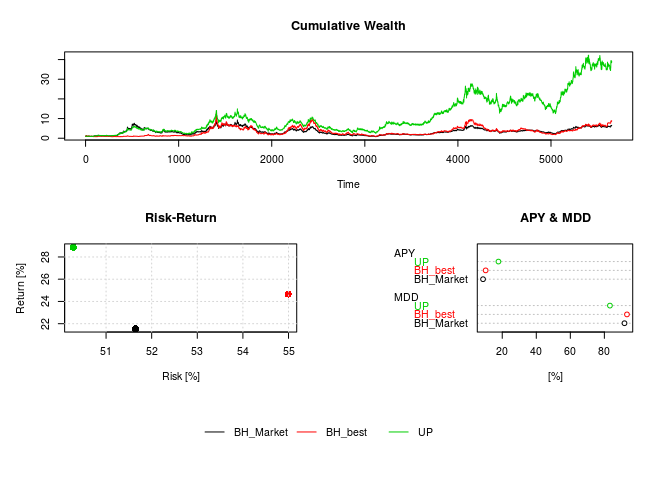
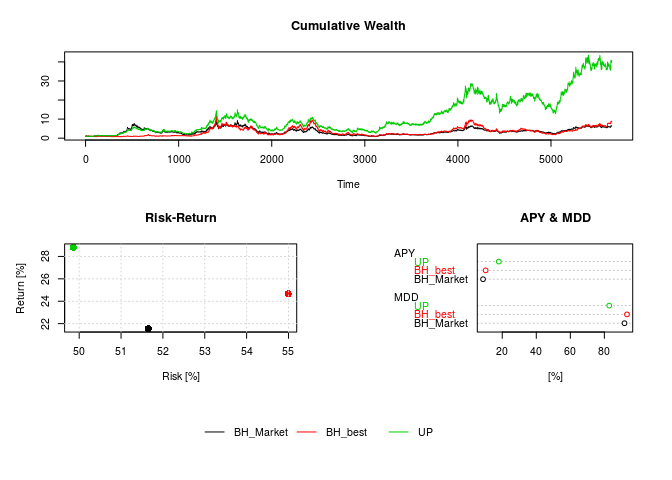
update README for new datasets SP500 and TSE

diff --git a/README.md b/README.md
@@ -33,9 +33,7 @@ Features
 
 #### Datasets:
 
--   NYSE dataset (used by Cover 1991, Helmbold et al. (1998), ...)
--   DAX dataset
--   DJIA dataset (used by Borodin, El-Yaniv, and Gogan 2004, ...)
+NYSE, DJIA, SP500, TSE, DAX
 
 Installation
 ------------
@@ -74,10 +72,10 @@ UP = alg_UP(x); UP
     ##   Algorithm   UP 
     ##   Assets      kinar iroqu 
     ## 
-    ##   Terminal Wealth   39.211 
+    ##   Terminal Wealth   40.603 
     ## 
-    ##   Return [%]   28.877              APY [%]   17.772 
-    ##   Risk   [%]   50.28               MDD [%]   83.268 
+    ##   Return [%]   28.827              APY [%]   17.956 
+    ##   Risk   [%]   49.858              MDD [%]   82.877 
     ## --------
 
 Accessing UP then returns a short summary of the algorithm's output. To access the calculated portfolio wealth or the portfolio weights you can type:
